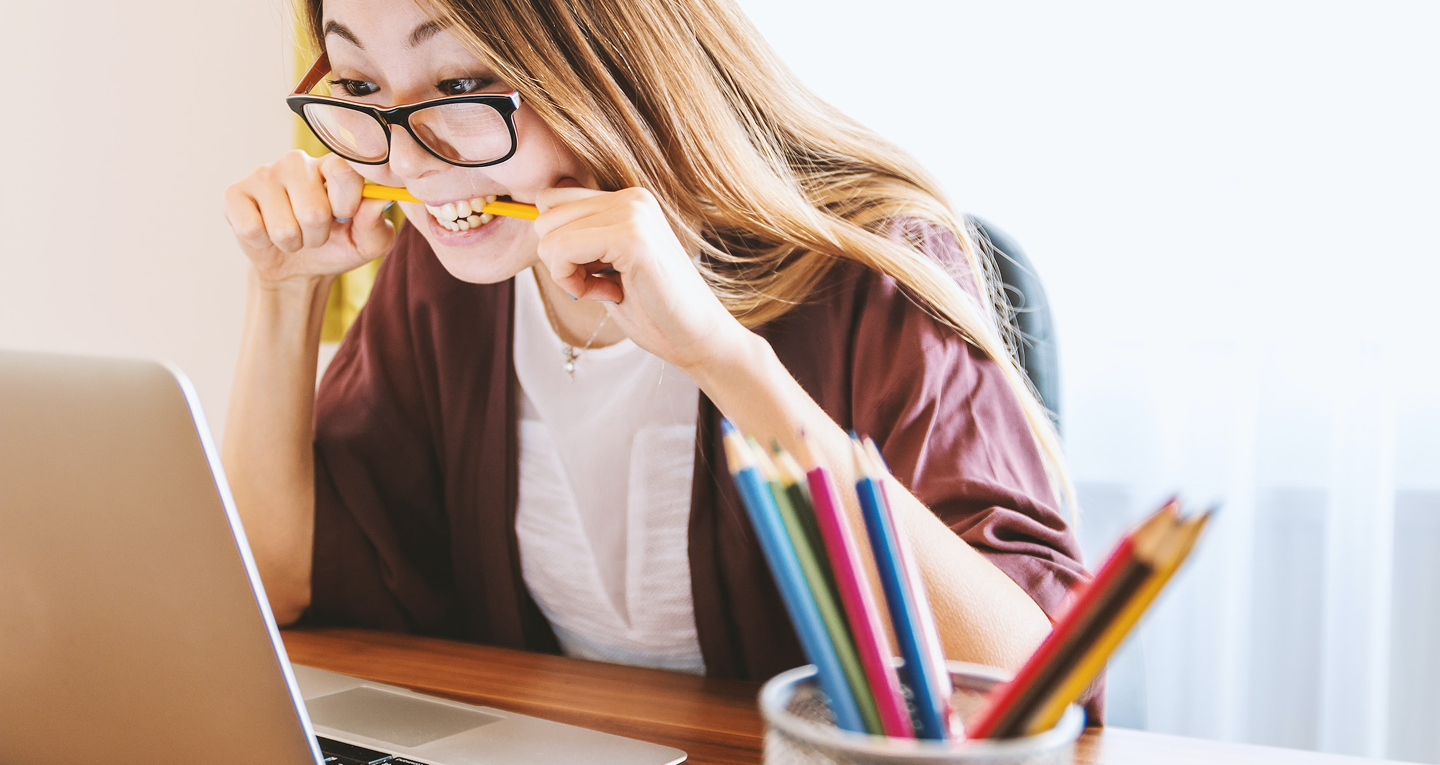
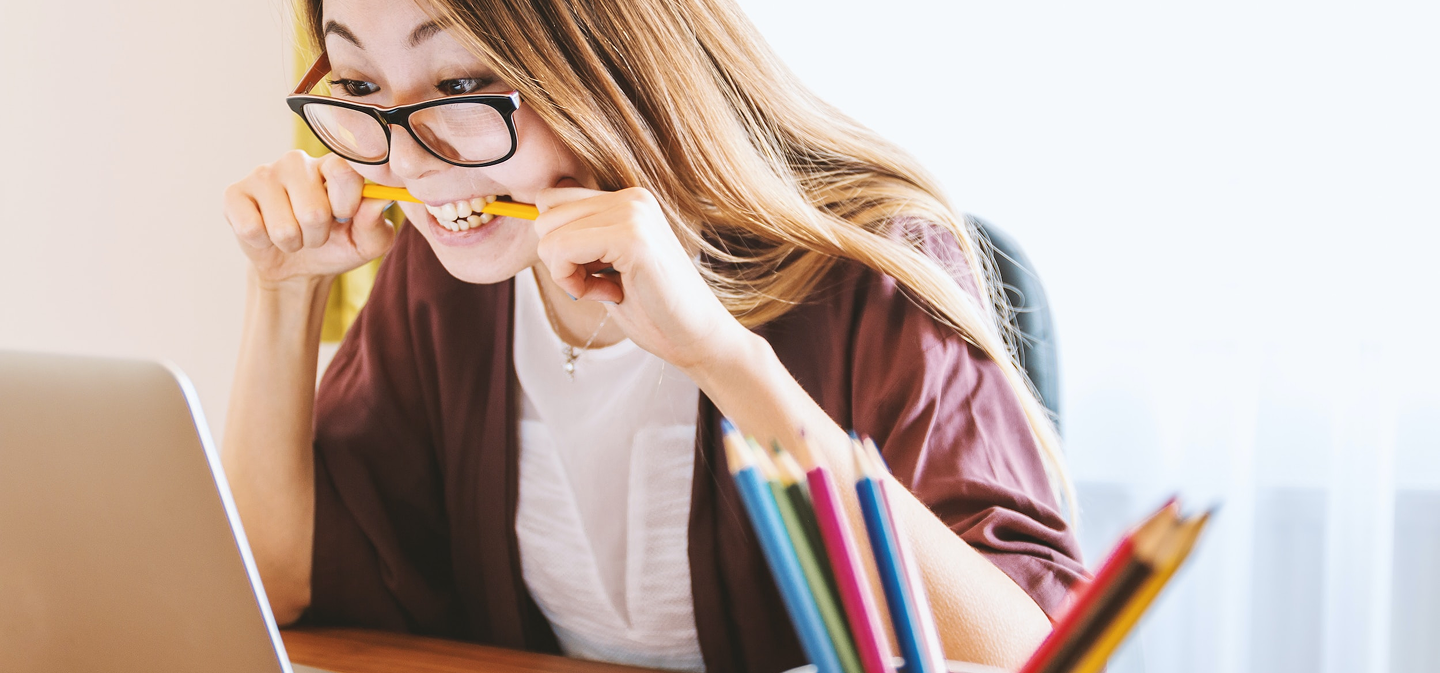
Mobile layout

diff --git a/exam/project.html b/exam/project.html
@@ -9,24 +9,39 @@
 </head>
 
 <body>
-        <header>
-            <nav class="nav-bar">
+    <header>
+        <nav class="nav-bar">
 
-                <a href="#" class="logo">CHATTER</a>
+            <a href="#" class="logo">CHATTER</a>
 
-                <ul class="nav-pages">
+            <ul class="nav-pages">
+                <li><a href="#">Home</a></li>
+                <li><a href="#">About us</a></li>
+                <li><a href="#">Contact</a></li>
+                <li><a href="#">Blogs</a></li>
+            </ul>
+            <div class="nav-sign">
+                <a href="#">Login</a>
+                <a href="#">Sign Up</a>
+            </div>
+
+            <details class="mobile-menu">
+                <summary class="hamburger">
+                    <span></span>
+                    <span></span>
+                    <span></span>
+                </summary>
+
+                <ul class="mobile-links">
                     <li><a href="#">Home</a></li>
                     <li><a href="#">About us</a></li>
                     <li><a href="#">Contact</a></li>
                     <li><a href="#">Blogs</a></li>
                 </ul>
-                <div class="nav-sign">
-                    <a href="#">Login</a>
-                    <a href="#">Sign Up</a>
-                </div>
-            </nav>
+            </details>
+        </nav>
 
-        </header>
+    </header>
     <main>
         <section class="hero">
             <div class="introduction">
@@ -96,61 +111,61 @@
             </div>
         </section>
         <section class="community">
-    <div class="community-images">
-        <img src="assets/1st bubble profile.png" alt="Chatter community member">
-        <img src="assets/2nd bubble profile.png" alt="Chatter community member">
-        <img src="assets/3rd bubble profile.png" alt="Chatter community member">
-    </div>
+            <div class="community-images">
+                <img src="assets/1st bubble profile.png" alt="Chatter community member">
+                <img src="assets/2nd bubble profile.png" alt="Chatter community member">
+                <img src="assets/3rd bubble profile.png" alt="Chatter community member">
+            </div>
 
-    <div class="community-content">
-        <h2>Write, read and connect with great minds on chatter</h2>
+            <div class="community-content">
+                <h2>Write, read and connect with great minds on chatter</h2>
 
-        <p>
-            Share people your great ideas, and also read write-ups based on your
-            interests. Connect with people of same interests and goals.
-        </p>
+                <p>
+                    Share people your great ideas, and also read write-ups based on your
+                    interests. Connect with people of same interests and goals.
+                </p>
 
-        <a href="#">Get started</a>
-    </div>
-</section>
+                <a href="#">Get started</a>
+            </div>
+        </section>
     </main>
     <footer class="footer">
 
-    <div class="footer-logo">
-        <a href="#" class="logo">CHATTER</a>
-    </div>
-
-    <div class="footer-links">
-
-        <div class="footer-column">
-            <h3>Explore</h3>
-            <ul>
-                <li><a href="#">Community</a></li>
-                <li><a href="#">Trending blogs</a></li>
-                <li><a href="#">Chatter for teams</a></li>
-            </ul>
+        <div class="footer-logo">
+            <a href="#" class="logo">CHATTER</a>
         </div>
 
-        <div class="footer-column">
-            <h3>Support</h3>
-            <ul>
-                <li><a href="#">Support docs</a></li>
-                <li><a href="#">Join slack</a></li>
-                <li><a href="#">Contact</a></li>
-            </ul>
+        <div class="footer-links">
+
+            <div class="footer-column">
+                <h3>Explore</h3>
+                <ul>
+                    <li><a href="#">Community</a></li>
+                    <li><a href="#">Trending blogs</a></li>
+                    <li><a href="#">Chatter for teams</a></li>
+                </ul>
+            </div>
+
+            <div class="footer-column">
+                <h3>Support</h3>
+                <ul>
+                    <li><a href="#">Support docs</a></li>
+                    <li><a href="#">Join slack</a></li>
+                    <li><a href="#">Contact</a></li>
+                </ul>
+            </div>
+
+            <div class="footer-column">
+                <h3>Official blog</h3>
+                <ul>
+                    <li><a href="#">Official blog</a></li>
+                    <li><a href="#">Engineering blog</a></li>
+                </ul>
+            </div>
+
         </div>
 
-        <div class="footer-column">
-            <h3>Official blog</h3>
-            <ul>
-                <li><a href="#">Official blog</a></li>
-                <li><a href="#">Engineering blog</a></li>
-            </ul>
-        </div>
-
-    </div>
-
-</footer>
+    </footer>
 </body>
 
 </html>

diff --git a/exam/style.css b/exam/style.css
@@ -11,7 +11,7 @@
     --emerald-light: #12A36B;
     --text-light: #E4EAE5;
     --text-muted: #A5AEA7;
-    --border: #344039;
+    --border: #b5e0c7;
 }
 
 * {
@@ -39,6 +39,10 @@ ul {
 img {
     max-width: 100%;
     display: block;
+}
+
+.mobile-menu {
+    display: none;
 }
 
 
@@ -112,13 +116,18 @@ img {
     display: flex;
     align-items: center;
     padding: 70px 12%;
-    background:
+
+    background-image:
         linear-gradient(
             90deg,
-            rgba(16, 20, 18, 0.96),
-            rgba(16, 20, 18, 0.65)
+            rgba(16, 20, 18, 0.90),
+            rgba(16, 20, 18, 0.55)
         ),
-        linear-gradient(135deg, #263C30, #101412);
+        url("assets/Background\ image.png");
+
+    background-size: cover;
+    background-position: center;
+    background-repeat: no-repeat;
 }
 
 .introduction {
@@ -399,70 +408,70 @@ img {
 
 @media (max-width: 768px) {
 
-    .nav-bar {
-        flex-wrap: wrap;
-        justify-content: center;
-        padding: 20px;
-    }
+.nav-bar {
+    flex-direction: row;
+    flex-wrap: nowrap;
+    justify-content: space-between;
+    gap: 10px;
+    padding: 15px 5%;
+}
 
-    .nav-pages {
-        gap: 15px;
-        flex-wrap: wrap;
-        justify-content: center;
-    }
+.nav-pages {
+    display: none;
+}
 
-    .nav-sign {
-        justify-content: center;
-    }
+.nav-sign {
+    flex-direction: row;
+    gap: 8px;
+}
 
-    .introduction h1 {
-        font-size: 29px;
-    }
+.mobile-menu {
+    display: block;
+    position: relative;
+}
 
-    .about-section {
-        flex-direction: column;
-        align-items: flex-start;
-        padding: 60px 7%;
-    }
+.hamburger {
+    display: flex;
+    flex-direction: column;
+    gap: 5px;
+    padding: 8px;
+    cursor: pointer;
+    list-style: none;
+}
 
-    .about-section img {
-        width: 100%;
-    }
+.hamburger::-webkit-details-marker {
+    display: none;
+}
 
-    .conviction {
-        padding: 60px 7%;
-    }
+.hamburger span {
+    width: 24px;
+    height: 3px;
+    background-color: var(--emerald-light);
+    border-radius: 3px;
+}
 
-    .conviction-cards {
-        flex-wrap: wrap;
-    }
+.mobile-links {
+    position: absolute;
+    top: 45px;
+    right: 0;
+    width: 180px;
+    padding: 10px;
+    background-color: var(--bg-surface);
+    border: 1px solid var(--border);
+    border-radius: 8px;
+    z-index: 100;
+}
 
-    .conviction-card {
-        flex: 1 1 250px;
-    }
+.mobile-links a {
+    display: block;
+    padding: 12px;
+    color: var(--text-light);
+}
 
-    .testimonial {
-        flex-direction: column;
-        text-align: center;
-    }
-
-    .community {
-        flex-direction: column;
-        text-align: center;
-    }
-
-    .community-content h2 {
-        font-size: 26px;
-    }
-
-    .footer {
-        flex-direction: column;
-    }
-
-    .footer-links {
-        flex-wrap: wrap;
-        gap: 35px;
-    }
+.mobile-links a:hover {
+    color: var(--emerald-light);
+    background-color: var(--bg-card);
+}
 }
 
 @media (max-width: 480px) {
